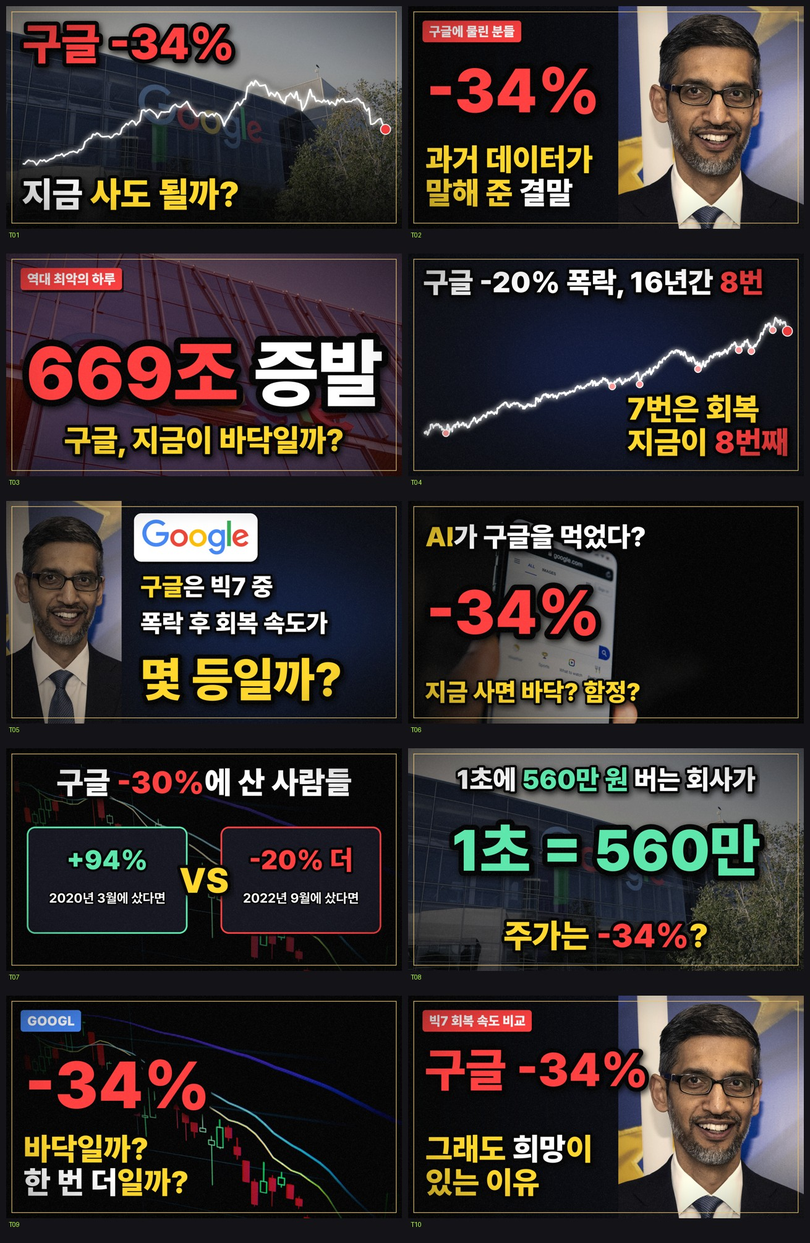
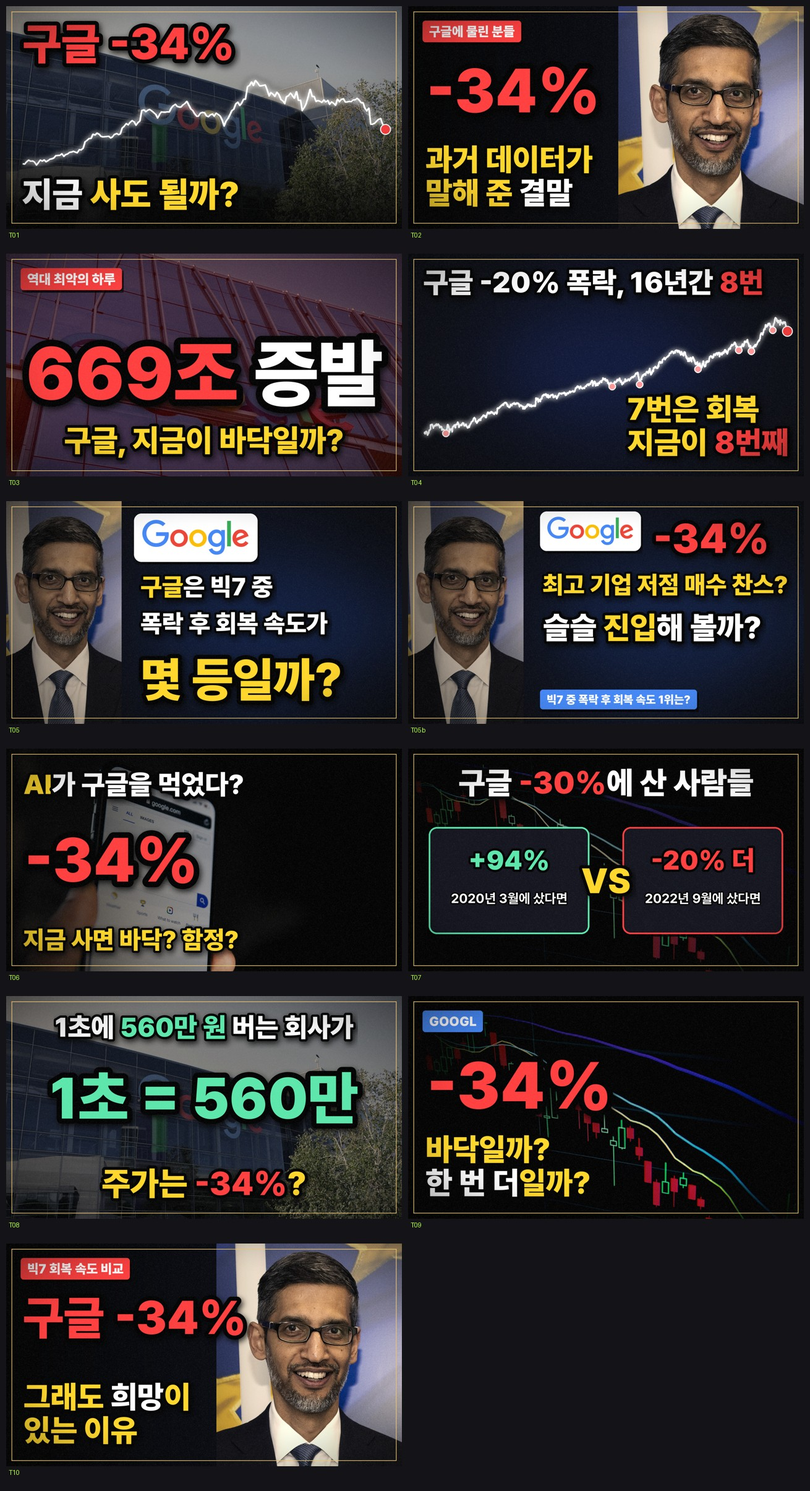
구글 편 제목·썸네일 변경(저점 매수 찬스? + 회복 속도 1위는?) · 결말 썸네일 파생 3종(S2 빨간 띠 · S3 검은 패널 · S4 남색 톤)
Claude-Session: https://claude.ai/code/session_01XzgYRsYwxnJKVwoBmLGtiR

diff --git a/youtube/tools/thumb_retitle.py b/youtube/tools/thumb_retitle.py
@@ -149,7 +149,93 @@ def apply():
     (ROOT / "retitle_log.json").write_text(json.dumps(log, ensure_ascii=False, indent=1))
 
 
+# ── 11/25 사용자: B는 너무 요약 느낌 → A의 문구 · 톤은 그대로, 색 · 배치만 다른 파생 3종(정기 구독자가 같은 썸네일만 보는 느낌 방지)
+def photo_tint(name, tint, dark=0.45, gray=True):
+    f = photo_bg(name, dark=dark) if gray else None
+    if not gray:
+        p = next(q for q in (ROOT / "assets/photos").glob(name + ".*") if q.suffix.lower() in (".jpg", ".jpeg", ".png", ".webp"))
+        im = Image.open(p).convert("RGB")
+        r = max(W / im.width, H / im.height)
+        im = im.resize((int(im.width * r) + 1, int(im.height * r) + 1), Image.LANCZOS)
+        im = im.crop(((im.width - W) // 2, (im.height - H) // 2, (im.width - W) // 2 + W, (im.height - H) // 2 + H))
+        im = ImageEnhance.Color(im).enhance(0.55)
+        f = ImageEnhance.Brightness(im).enhance(1 - dark).convert("RGBA")
+    if tint:
+        f.alpha_composite(Image.new("RGBA", (W, H), tint + (70,)))
+    return f
+
+
+def make_s2(it):   # 컬러 사진(채도 낮춤) + 아래 빨간 띠에 결말 줄 · 말풍선 오른쪽 위
+    f = photo_tint(it["photo"], None, dark=0.45, gray=False)
+    vg = Image.new("RGBA", (W, H), (0, 0, 0, 0))
+    ImageDraw.Draw(vg).rectangle((0, H // 2, W, H), fill=(0, 0, 0, 120))
+    f.alpha_composite(vg.filter(ImageFilter.GaussianBlur(80)))
+    l2 = TH.fit(it["l2"], 170, 1700, color=WHITE, hl=it["hl"], hl_color=YEL)
+    band = Image.new("RGBA", (l2.width + 120, l2.height + 50), (210, 30, 40, 255)).rotate(-2, expand=True, resample=Image.BICUBIC)
+    f.alpha_composite(band, (20, H - band.height - 40))
+    TH.shadowed(f, l2, (80, H - band.height - 40 + (band.height - l2.height) // 2))
+    l1 = TH.fit(it["l1"], 150, 1700, color=WHITE, hl=it["hl"], hl_color=YEL)
+    TH.shadowed(f, l1, (70, H - band.height - 50 - l1.height))
+    bb = bubble(it["bubble"])
+    TH.shadowed(f, bb, (W - bb.width - 60, 50))
+    b = badge()
+    f.alpha_composite(b, (60, 50))
+    return f.convert("RGB")
+
+
+def make_s3(it):   # 왼쪽 검은 패널에 문구 세로로 크게 · 오른쪽 사진 · 노랑 테두리
+    f = Image.new("RGBA", (W, H), (12, 14, 20, 255))
+    ph = photo_bg(it["photo"], dark=0.35).crop((W - 1000, 0, W, H))
+    f.alpha_composite(ph, (W - 1000, 0))
+    g = Image.new("RGBA", (W, H), (0, 0, 0, 0))
+    gd = ImageDraw.Draw(g)
+    for x in range(0, 500):
+        gd.line((W - 1000 + x, 0, W - 1000 + x, H), fill=(12, 14, 20, int(255 * (1 - x / 500))))
+    f.alpha_composite(g)
+    ImageDraw.Draw(f).rectangle((0, 0, W - 1, H - 1), outline=YEL + (255,), width=14)
+    TH.shadowed(f, bubble(it["bubble"]), (70, 70))
+    l1 = TH.fit(it["l1"], 150, 1150, color=WHITE, hl=it["hl"], hl_color=RED)
+    l2 = TH.fit(it["l2"], 190, 1150, color=YEL, hl=it["hl"], hl_color=RED)
+    TH.shadowed(f, l1, (70, 420))
+    TH.shadowed(f, l2, (70, 430 + l1.height))
+    b = badge()
+    f.alpha_composite(b, (W - b.width - 50, H - b.height - 50))
+    return f.convert("RGB")
+
+
+def make_s4(it):   # 남색 톤 사진 · 위 흰 줄 · 아래 검은 상자 속 노랑 결말 · 말풍선 가운데 왼쪽
+    f = photo_tint(it["photo"], (20, 50, 140), dark=0.5)
+    l1 = TH.fit(it["l1"], 160, 1800, color=WHITE, hl=it["hl"], hl_color=YEL)
+    TH.shadowed(f, l1, (W / 2, 60), "mt")
+    l2 = TH.fit(it["l2"], 190, 1700, color=YEL, hl=it["hl"], hl_color=RED)
+    box = Image.new("RGBA", (l2.width + 100, l2.height + 50), (0, 0, 0, 0))
+    ImageDraw.Draw(box).rounded_rectangle((0, 0, box.width - 1, box.height - 1), 30, fill=(8, 10, 16, 235), outline=YEL + (255,), width=6)
+    f.alpha_composite(box, (int(W / 2 - box.width / 2), H - box.height - 60))
+    TH.shadowed(f, l2, (W / 2, H - box.height - 60 + 25), "mt")
+    TH.shadowed(f, bubble(it["bubble"]), (60, 330))
+    b = badge()
+    f.alpha_composite(b, (W - b.width - 40, 340))
+    return f.convert("RGB")
+
+
+def build_variants():
+    OUT.mkdir(parents=True, exist_ok=True)
+    fns = [("S2", make_s2), ("S3", make_s3), ("S4", make_s4)]
+    sheet = Image.new("RGB", (3 * 650 + 10, len(ITEMS) * 400 + 10), (20, 20, 24))
+    for i, it in enumerate(ITEMS):
+        for j, (nm, fn) in enumerate(fns):
+            im = fn(it).resize((1280, 720), Image.LANCZOS)
+            im.save(OUT / f"{it['ep']}_{nm}.jpg", quality=92)
+            sheet.paste(im.resize((640, 360)), (10 + j * 650, 10 + i * 400))
+            ImageDraw.Draw(sheet).text((14 + j * 650, 372 + i * 400), f"{it['ep']} {nm}", fill=(180, 255, 60))
+    sheet.save(OUT / "파생_비교표.jpg", quality=85)
+    print("파생 →", OUT / "파생_비교표.jpg")
+
+
 if __name__ == "__main__":
+    if "--variants" in sys.argv:
+        build_variants()
+        sys.exit()
     build()
     if "--apply" in sys.argv:
         apply()

diff --git a/youtube/tools/thumb_google.py b/youtube/tools/thumb_google.py
@@ -147,6 +147,25 @@ def make(sp):
         TH.shadowed(f, s1, (640, 330))
         TH.shadowed(f, s2, (640, 330 + s1.height + 10))
         TH.shadowed(f, s3, (630, 330 + s1.height + s2.height + 40))
+    elif v == "podium2":     # 11/25 사용자: 문구 · 배치만 변경 — 저점 매수 찬스? 진입? + 작은 글씨로 빅7 회복 속도 1위는?
+        f = TH.bg_dark((20, 50, 120), (0.65, 0.55))
+        f.alpha_composite(photo("g_pichai", 560, H, focus=(0.5, 0.25), dark=0.3, gray=0.2), (0, 0))
+        shade(f, "left", 0.36, 110)
+        lg = Image.open(ROOT / "assets/photos/g_logo_flat.png").convert("RGBA")
+        lg = lg.resize((420, int(420 * lg.height / lg.width)), Image.LANCZOS)
+        card = Image.new("RGBA", (lg.width + 70, lg.height + 50), (0, 0, 0, 0))
+        ImageDraw.Draw(card).rounded_rectangle((0, 0, card.width - 1, card.height - 1), 32, fill=(255, 255, 255, 255))
+        card.alpha_composite(lg, (35, 25))
+        TH.shadowed(f, card, (640, 50))
+        neg = big("-34%", 200, 700, color=RED)
+        TH.shadowed(f, neg, (640 + card.width + 40, 40))
+        s1 = big("최고 기업 저점 매수 찬스?", 118, 1240, color=YEL, hl="찬스?", hl_color=YEL)
+        s2 = big("슬슬 진입해 볼까?", 150, 1240, color=WHITE, hl="진입", hl_color=YEL)
+        y0 = 60 + card.height + 70
+        TH.shadowed(f, s1, (640, y0))
+        TH.shadowed(f, s2, (640, y0 + s1.height + 20))
+        sm = pill("빅7 중 폭락 후 회복 속도 1위는?", 56, bg=BLUE)
+        TH.shadowed(f, sm, (640, H - sm.height - 70))
     elif v == "phone":       # 검색 화면 + AI 질문
         f.alpha_composite(photo("g_search_phone", W, H, focus=(0.45, 0.4), dark=0.3, gray=0.1))
         shade(f, "left", 0.7, 245)
@@ -188,6 +207,7 @@ SPECS = [
     {"name": "T03", "v": "crash", "tag": "역대 최악의 하루", "big": "669조 증발", "hl_big": "669조", "bottom": "구글, 지금이 바닥일까?"},
     {"name": "T04", "v": "dots", "top": "구글 -20% 폭락, 16년간 8번", "hl_top": "8번", "bottom": "7번은 회복\n지금이 8번째", "hl": "8번째"},
     {"name": "T05", "v": "podium"},
+    {"name": "T05b", "v": "podium2"},
     {"name": "T06", "v": "phone", "top": "AI가 구글을 먹었다?", "hl_top": "AI", "big": "-34%", "bottom": "지금 사면 바닥? 함정?"},
     {"name": "T07", "v": "vs", "top": "구글 -30%에 산 사람들", "hl": "-30%", "cards": [("+94%", "2020년 3월에 샀다면", MINT), ("-20% 더", "2022년 9월에 샀다면", RED)]},
     {"name": "T08", "v": "money", "top": "1초에 560만 원 버는 회사가", "hl_top": "560만 원", "big": "1초 = 560만", "bottom": "주가는 -34%?", "hl": "-34%"},
@@ -203,7 +223,7 @@ if __name__ == "__main__":
         p = OUT / f"{sp['name']}.png"
         im.save(p)
         outs.append((sp["name"], p))
-    sheet = Image.new("RGB", (2 * 650 + 10, 5 * 400 + 10), (20, 20, 24))
+    sheet = Image.new("RGB", (2 * 650 + 10, 6 * 400 + 10), (20, 20, 24))
     for i, (nm, p) in enumerate(outs):
         x, y = 10 + (i % 2) * 650, 10 + (i // 2) * 400
         sheet.paste(Image.open(p).resize((640, 360)), (x, y))
